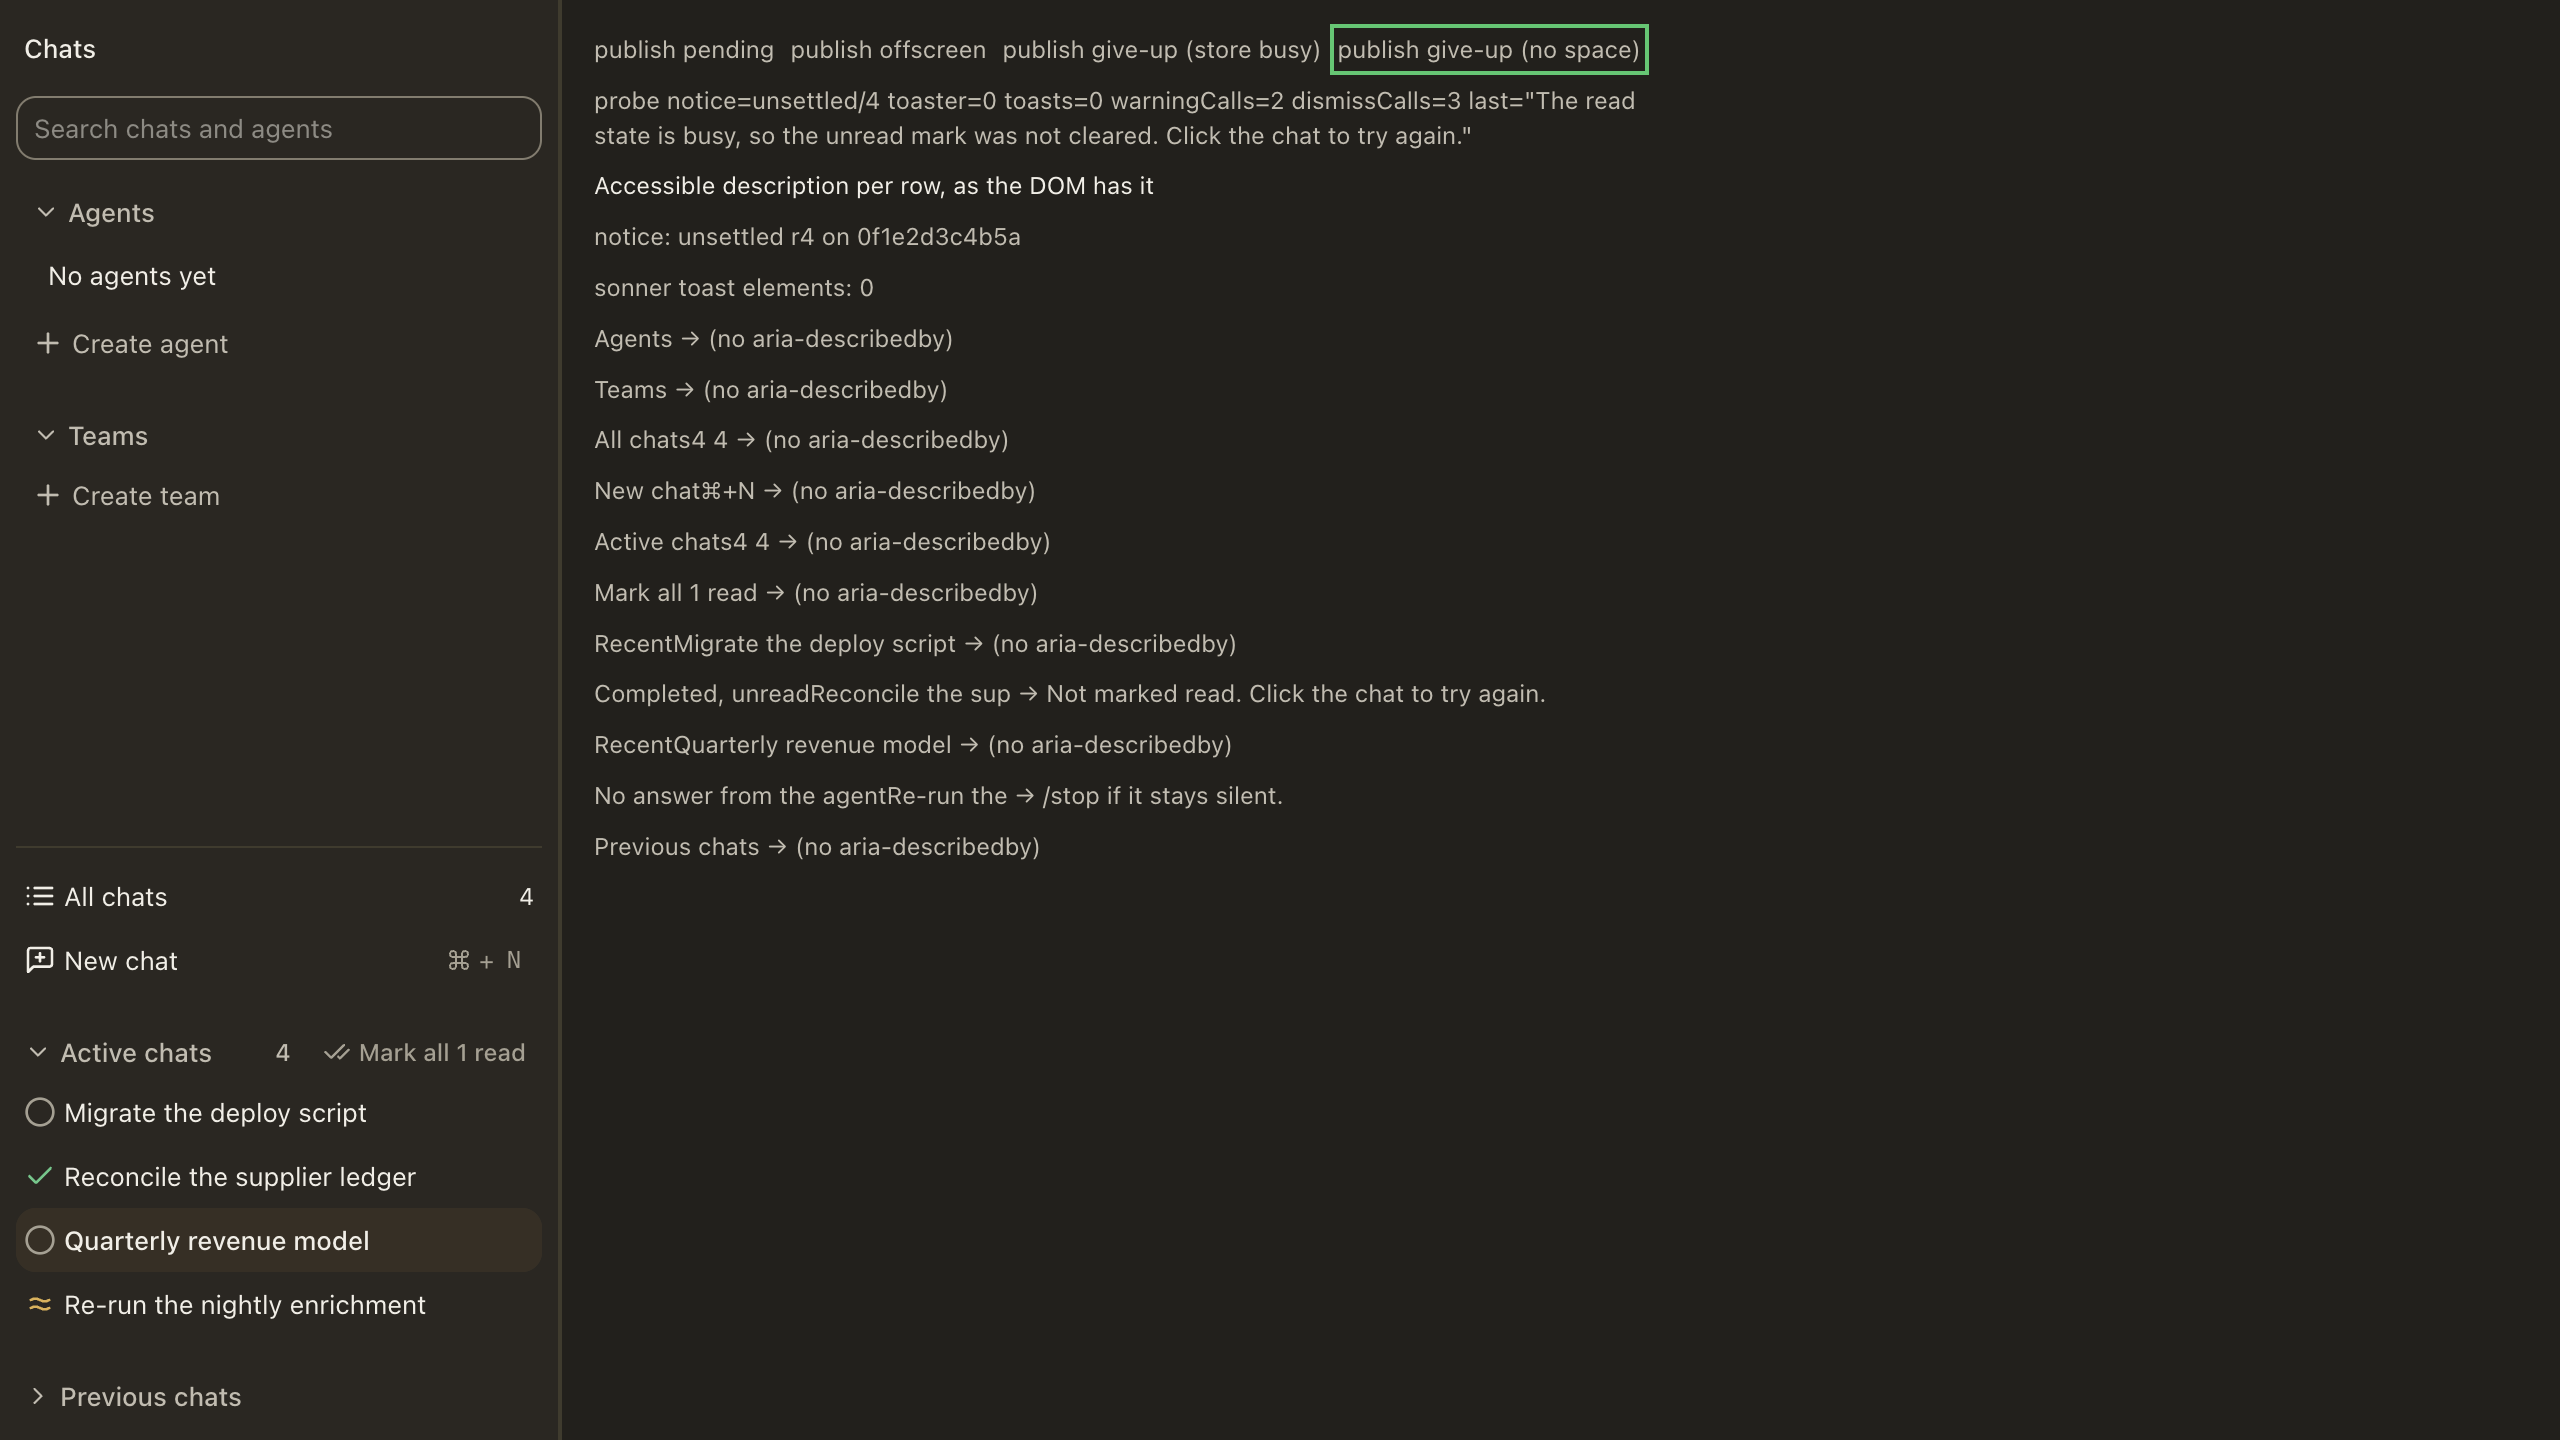
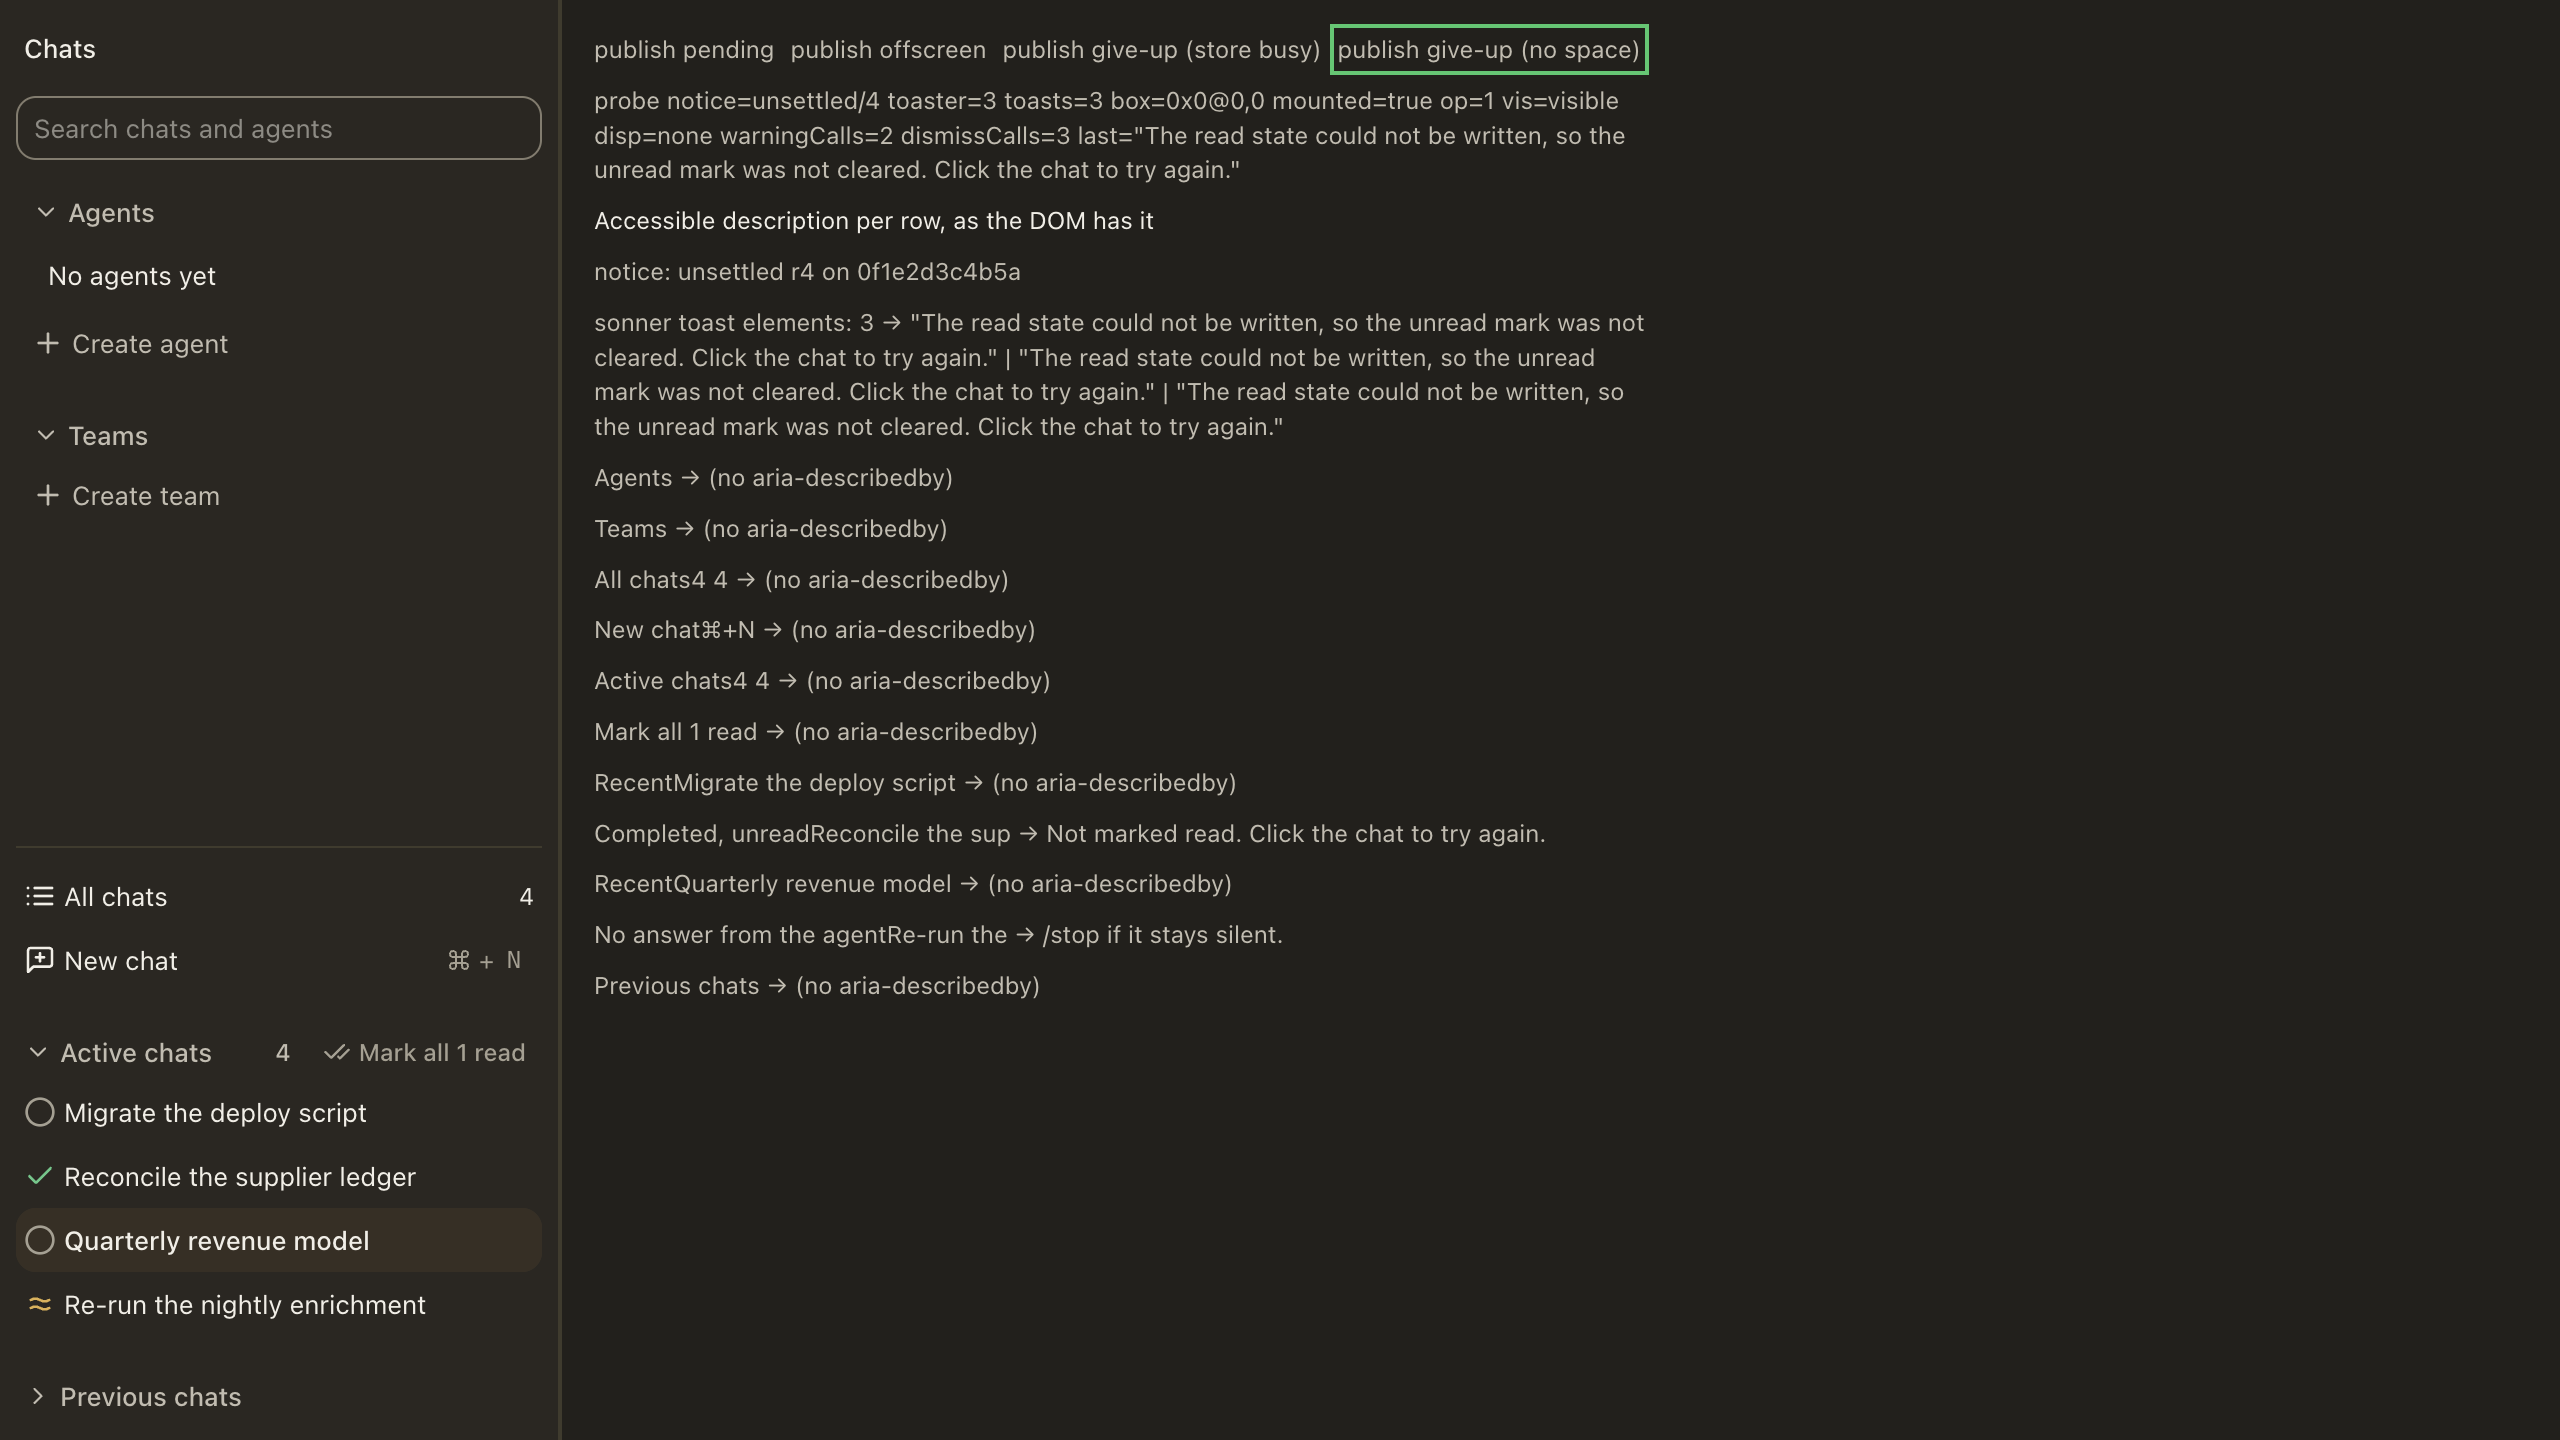
docs(evidence): re-shoot the store-refusal arm's frame, measure the card, and stop crediting a dead pin
EVIDENCE-ONLY: nothing under `src/` or `scripts/` moves.

D12 (the over-claim): `after/toast-full-volume.png` claimed the store-refusal arm's
sentence and its own readout showed `toaster=0 toasts=0` with `last` still the
contention arm's - the second store arm's publish is identity-preserving on the
standing `(sessionId, kind)` pair, so it raised nothing and by capture time the busy
card had retired. Re-shot with the two-press sequence (`pending` first, so the kind
changes): the readout now carries `toaster=3 toasts=3` and this arm's sentence three
times, `The read state could not be written, so the unread mark was not cleared.
Click the chat to try again.`, and the README's row says what it shows.

D13 (the deferred card, now measured): 324x62 for the contention arm, 324x80 for the
store refusal, the third line a lone `again.` inferred from the box rather than seen
in a frame. No frame in this set can carry a card, and that is a rig property rather
than the library's: the two containers outside the nav sit at `op=0` beside a `0x0`
`<ol>` while `data-mounted`/`data-visible`/`data-styled` are true - re-measured with
the harness's `optimizeDeps` pins removed. Both numbers are in the README with the
measurement that produced them.

D14 + the review's NIT 2: the harness's `optimizeDeps.include` line was dead (the
spread beneath it overwrote it) and the README credited it as the fix; the line is
[…]

Changed region(s): [[0.2188, 0.0625, 0.625, 0.6875]]

diff --git a/docs/evidence/read-ack-notice/harness/main.ts b/docs/evidence/read-ack-notice/harness/main.ts
@@ -35,24 +35,22 @@ const config: StorybookConfig = {
 		};
 		config.plugins = [...(config.plugins ?? []), tailwindcss()];
 		/*
-		 * ONE SONNER. Its store is a module-level singleton, so a build that resolves
-		 * the package twice gives the component that RAISES a toast and the Toaster
-		 * that paints it two different stores - the panel's request reaches the lane
-		 * and nothing appears, which is exactly what the live probe on the story
-		 * reported (`toaster=0`, one warning call, the composed sentence).
+		 * ONE SONNER, and this is the only pin that survived being measured. Its store
+		 * is a module-level singleton, so a build that resolves the package twice gives
+		 * the component that RAISES a toast and the Toaster that paints it two different
+		 * stores.
+		 *
+		 * TWO FURTHER PINS USED TO SIT HERE AND WERE REMOVED (design round 3, D14): the
+		 * round that added them hoped they explained the lane painting nothing, and the
+		 * next round measured what actually stops it - the copies outside the nav sit at
+		 * `op=0` beside a `0x0` `<ol>`, a container with no box - and re-ran with the
+		 * whole `optimizeDeps` block gone for the same numbers. One of the two pins was
+		 * also dead, overwritten by the spread beneath it. What changed that round's
+		 * reading was a rebuild of the vite dep cache, which is not a config fact and is
+		 * not claimed anywhere in this set.
 		 */
 		config.resolve.dedupe = [...(config.resolve?.dedupe ?? []), "sonner"];
-		/*
-		 * AND SONNER IS NOT PRE-BUNDLED EITHER. `dedupe` alone left the profile
-		 * build serving one copy from the dep cache and the source tree's modules
-		 * another: the panel's request landed in a store whose only subscriber is the
-		 * story's own import, while the Toaster rendered from the other store - and
-		 * sonner renders NOTHING when its own list is empty
-		 * (`if (!toasts.length) return null`), which is why the page showed no
-		 * `[data-sonner-toaster]` at all.
-		 */
 		config.optimizeDeps = {
-			include: [...(config.optimizeDeps?.include ?? []), "sonner"],
 			...config.optimizeDeps,
 			exclude: [...(config.optimizeDeps?.exclude ?? []), "sonner"],
 		};

diff --git a/docs/evidence/read-ack-notice/README.md b/docs/evidence/read-ack-notice/README.md
@@ -8,9 +8,11 @@ so a hand-driven set cannot be mistaken for frames a sweep produced and the
 capturer's own figures stay untouched. This repository's contact sheets set the same
 precedent.
 
-**Read the third column first.** Only ONE frame in this set has a *drawn* change;
-the rest are evidence of the DOM the panel ships and are labelled as such rather
-than left to imply a picture (design round 2, D8):
+**Read the third column first.** Two rows are labelled `drawn` — `baseline`, the
+reference frame the others are diffed against, and `unsettled-flyout`, the one whose
+pixels a change in this pull request moves — and the other seven are evidence of the
+DOM the panel ships, labelled as such rather than left to imply a picture (design
+rounds 2 and 3, D8 and D15):
 
 | frame | state | what it shows |
 | --- | --- | --- |
@@ -21,7 +23,7 @@ than left to imply a picture (design round 2, D8):
 | `after/unsettled.png` | `unsettled` | **DOM readout**: `notice: unsettled`, the deferred row's description, and the silent row's clause now carrying its own full stop (`/stop if it stays silent.`). |
 | `after/silent-and-receipt.png` | `unsettled` on a row that is also silent | **DOM readout**: the composed description, `/stop if it stays silent. Not marked read. Click the chat to try again.` — two sentences, neither running into the other (design round 1 D4, design round 2 D9; 2 px of anti-aliasing differ in the panel, no drawn change) |
 | `after/toast-busy.png` | the give-up arm's contention refusal | **DOM readout**: `toaster=3 toasts=3` and the lane's three copies of **the composed sentence for this arm** — `The read state is busy, so the unread mark was not cleared. Click the chat to try again.` — beside `warningCalls=2 dismissCalls=3` and the measured box (`box=0x0@0,0 mounted=true op=1 vis=visible disp=none`) |
-| `after/toast-full-volume.png` | the same arm for a store refusal | **DOM readout**: the sentence for the other store arm, `The read state could not be written, …`, in the lane |
+| `after/toast-full-volume.png` | the same arm for a store refusal | **DOM readout**: `toaster=3 toasts=3` and the lane's three copies of **this arm's** sentence — `The read state could not be written, so the unread mark was not cleared. Click the chat to try again.` (the probe's `last`, verbatim). Re-shot with the two-press sequence: the frame it replaced recorded `toaster=0` and the CONTENTION sentence, because the second store arm's publish is identity-preserving on the standing `(sessionId, kind)` pair and so raised nothing (design round 3, D12) |
 | `after/toast-retired.png` | the sentence retired | **DOM readout**: the same lane after the kind changed — the sentence is gone and the readout's `dismissCalls` has advanced |
 
 Every frame carries the rig's own readouts: the notice the store holds, the row's
@@ -43,24 +45,56 @@ loop lives in the transcript and needs a live backend refusing `/seen`. They als
 not prove any assistive technology's announcement, the toast inside the app's own
 Electron window, or eleven of the twelve palettes.
 
-**THE TOAST'S BOX IS STILL NOT IN THIS SET, AND THE REASON IS MEASURED RATHER THAN
-ASSERTED.** The round that added the first version of this set said the lane painted
-nothing; that was wrong, and the design round was right to reject it. Corrected, the
-sequence is: sonner DOES receive the request and DOES render it once the build
-resolves one copy of the package (the round-2 harness had two, which is why a probe
-found no toaster; `harness/main.ts` now pins `resolve.dedupe` and
-`optimizeDeps.include`), and the copies it renders inside this panel's own lane are
-hidden — `styles/index.css` declares
-`nav[aria-label="Chats"] [data-sonner-toaster] [data-sonner-toast]:not(.lo-archive-toast) { display: none; }`,
-which is the rule that keeps a receipt's message out of the archive lane, and the
-probe measures exactly that (`disp=none`). What no capture here shows is a painted
-box anywhere: the rig mounts three containers at the same position, the copies that
-are not under the nav are the ones that would paint, and they did not in any frame
-of this set. So the sentence's **rendered height at this wording remains unverified
-by a frame**; for the previous wording the design round measured **360x66 CSS px
-over two lines** for both store arms. A rig that hovers (or an app-side capture) is
-what that picture needs, and the next round should not re-read this paragraph as
-either "the library failed" or "the box is fine".
+**NO FRAME CARRIES THE `unreachable` CLASS'S SENTENCE.** It is the longest this
+pull request ships — `Desktop controls could not reach the backend process. The
+unread mark was not cleared. Click the chat to try again.` — and the rig stages four
+states (`pending`, `offscreen`, and the two store arms), none of which is it: the
+transport's own sentences are raised by a bridge that never answered, an old backend
+and the deadline, and the rig's staging readout asks the store for a refusal code
+instead. Its words are pinned where they are composed, by the composer case in
+`scripts/mark-all-read-control.test.mjs`, and its geometry is pinned by nothing — the
+rig cannot paint a card for any arm at all, which is the next paragraph (UX round 4,
+U10).
+
+**THE TOAST'S BOX IS STILL NOT IN THIS SET, AND WHAT STOPS IT IS NOW MEASURED.**
+The arc is worth recording because two earlier explanations were wrong. The round
+that added the first version of this set said the lane painted nothing; the next
+replaced that with "the build resolves two copies of sonner", which the design round
+refuted by re-running with the whole `optimizeDeps` block removed and reading the
+same numbers. What actually holds the card off this rig's frames, measured in the
+committed rig at this head:
+
+- sonner DOES receive the request and renders it — the lane's three copies of the
+  composed sentence are in the DOM, and the probe prints them verbatim;
+- the copies inside this panel's own lane are hidden on purpose —
+  `styles/index.css` declares
+  `nav[aria-label="Chats"] [data-sonner-toaster] [data-sonner-toast]:not(.lo-archive-toast) { display: none; }`,
+  which is the rule that keeps a receipt's message out of the archive lane, and the
+  probe measures exactly that (`disp=none`);
+- and the two containers outside that nav sit at **`op=0` with a `0x0` `<ol>`** while
+  `data-mounted`, `data-visible` and `data-styled` are all true — a container with no
+  box, so no capture of this set could have carried a card whatever the timing. Give
+  that container the box the app's own lane gives it and the same rig paints the card
+  at the bottom-right, which is how the round that measured it read the busy
+  sentence's first painted line.
+
+**THE CARD'S HEIGHTS ARE MEASURED, THOUGH NO FRAME SHOWS ONE** (design round 3,
+D13) — from the DOM of this rig at this head, at the lane the app gives a positionless
+toast (sonner's default 356 px `<ol>`, 324 px of card):
+
+| arm | sentence | card | sonner's own reading |
+| --- | --- | --- | --- |
+| contention (`store_busy`) | 88 chars | **324x62** — two lines | `--front-toast-height: 62px` |
+| store refusal (`store_out_of_space`) | 98 chars | **324x80** — three lines | `--front-toast-height: 80px` |
+
+The 18 px step is one line box, and it is the shape D11 flagged for the flyout one
+surface over: at this width the refusal sentence takes a third line that is a lone
+`again.` — not seen painted, so it is written here as an inference from the box rather
+than as a frame. Round 2's two-line reading was taken on the **previous** wording, so
+those two numbers are what replaces it: the card is 62 px and 80 px, and what the rig
+needs is a container with a box, not a different library or another pin. The next
+round should not re-read this section as either "the library failed" or "the box is
+fine".
 
 ## How they were produced
 
@@ -68,8 +102,8 @@ either "the library failed" or "the box is fine".
 other evidence sets archive theirs:
 
 - `main.ts` — a Storybook config whose `stories` glob points at this directory, so
-  no story was added to the repository for one round's frames, plus the one-sonner
-  pins described above;
+  no story was added to the repository for one round's frames, plus the `dedupe`
+  and `optimizeDeps.exclude` pins the section above describes;
 - `preview.tsx` — the repository's own preview (it mounts the themed toast
   container and reads `parameters.toastDuration`);
 - `read-ack.stories.tsx` — a staging story that renders the shipped `ChatSidebar`
